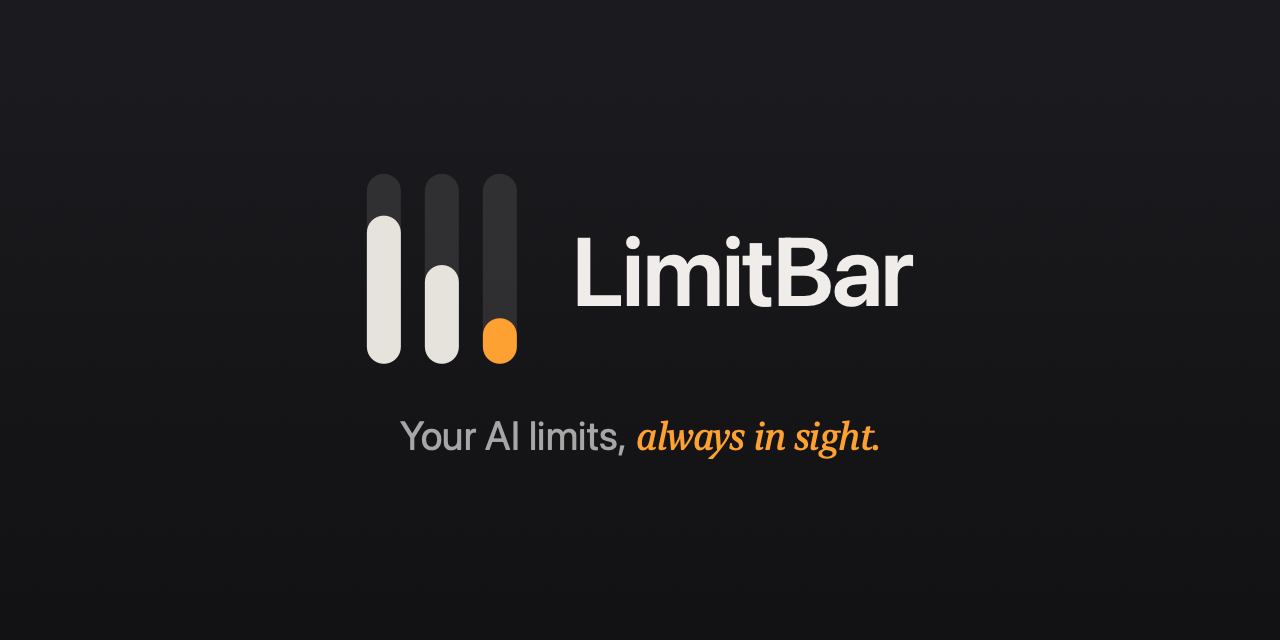
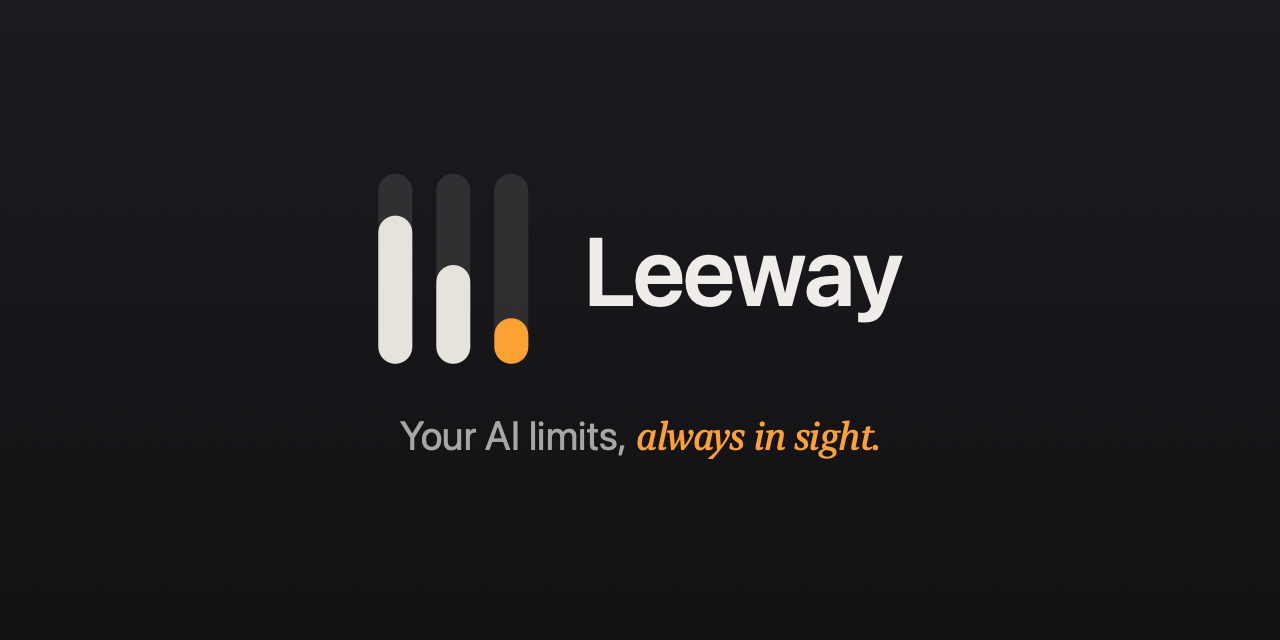
rename: LimitBar → Leeway — old name is taken by an existing paid app
The owner picked "Leeway" as the new name since "LimitBar" collides with a
competitor product already using that name. Renames the package, executable
target, test target, bundle id (lv.ykv.limitbar -> lv.ykv.leeway), source
and test directories, build/release scripts, env vars (LIMITBAR_* ->
LEEWAY_*), the landing site, README, and og.png (regenerated with the new
wordmark). docs/ and HANDOFF-*.md are left untouched by design — they're
historical records of the old name.

Side effect: the bundle id change orphans the old UserDefaults domain and
the old "LimitBar" Keychain service (own OAuth tokens only — the read-only
"Claude Code-credentials" entry is untouched). The extra OAuth account will
need to be re-added once after this rename ships.

Changed region(s): [[0.4375, 0.375, 0.7188, 0.5], [0.2812, 0.3125, 0.4375, 0.5938]]

diff --git a/site/index.html b/site/index.html
@@ -3,22 +3,22 @@
 <head>
 <meta charset="UTF-8" />
 <meta name="viewport" content="width=device-width, initial-scale=1" />
-<title>LimitBar — Claude Code &amp; Codex usage limits in your Mac menu bar</title>
-<meta name="description" content="LimitBar is a tiny macOS menu-bar app that shows your Claude Code and Codex usage limits live — the 5-hour window and the weekly cap, for every account you run. Know there's headroom before you fire the big job, and see exactly when the wall resets. Free, open source, notarized by Apple." />
+<title>Leeway — Claude Code &amp; Codex usage limits in your Mac menu bar</title>
+<meta name="description" content="Leeway is a tiny macOS menu-bar app that shows your Claude Code and Codex usage limits live — the 5-hour window and the weekly cap, for every account you run. Know there's headroom before you fire the big job, and see exactly when the wall resets. Free, open source, notarized by Apple." />
 <meta name="keywords" content="claude code usage limit, claude code rate limit tracker, claude 5 hour window, claude weekly limit, codex usage limit, chatgpt codex quota, anthropic usage monitor menu bar, claude max limits, ai coding agent limits mac" />
 <meta name="author" content="NORM — [email redacted]" />
-<link rel="canonical" href="https://limitbar.ykv.lv/" />
-<meta property="og:title" content="LimitBar — your AI limits, always in sight" />
+<link rel="canonical" href="https://leeway.ykv.lv/" />
+<meta property="og:title" content="Leeway — your AI limits, always in sight" />
 <meta property="og:description" content="Claude Code &amp; Codex usage across every account — live gauges in the macOS menu bar. 5-hour window, weekly cap, reset times. Free &amp; open source, notarized by Apple." />
-<meta property="og:image" content="https://limitbar.ykv.lv/assets/og.png" />
+<meta property="og:image" content="https://leeway.ykv.lv/assets/og.png" />
 <meta property="og:image:width" content="1280" />
 <meta property="og:image:height" content="640" />
-<meta property="og:url" content="https://limitbar.ykv.lv/" />
+<meta property="og:url" content="https://leeway.ykv.lv/" />
 <meta property="og:type" content="website" />
 <meta name="twitter:card" content="summary_large_image" />
-<meta name="twitter:title" content="LimitBar — Claude Code &amp; Codex limits in your menu bar" />
+<meta name="twitter:title" content="Leeway — Claude Code &amp; Codex limits in your menu bar" />
 <meta name="twitter:description" content="Live usage gauges for every Claude Code and Codex account — 5-hour window, weekly cap, reset times. Free &amp; open source." />
-<meta name="twitter:image" content="https://limitbar.ykv.lv/assets/og.png" />
+<meta name="twitter:image" content="https://leeway.ykv.lv/assets/og.png" />
 <meta name="theme-color" content="#eef0f3" />
 <link rel="icon" type="image/png" sizes="32x32" href="/favicon-32.png" />
 <link rel="icon" type="image/png" sizes="16x16" href="/favicon-16.png" />
@@ -33,14 +33,14 @@
 {
   "@context": "https://schema.org",
   "@type": "SoftwareApplication",
-  "name": "LimitBar",
+  "name": "Leeway",
   "applicationCategory": "DeveloperApplication",
   "operatingSystem": "macOS 13 Ventura or later",
   "softwareVersion": "0.1",
   "description": "A tiny macOS menu-bar app that shows Claude Code and Codex usage limits live — the 5-hour window and the weekly cap for every account, with reset times. Built for developers running AI coding agents on subscription plans.",
-  "url": "https://limitbar.ykv.lv/",
-  "downloadUrl": "https://github.com/sshykvlv/limitbar/releases/latest",
-  "softwareHelp": "https://github.com/sshykvlv/limitbar",
+  "url": "https://leeway.ykv.lv/",
+  "downloadUrl": "https://github.com/sshykvlv/leeway/releases/latest",
+  "softwareHelp": "https://github.com/sshykvlv/leeway",
   "license": "https://opensource.org/license/mit",
   "featureList": [
     "Live 5-hour and weekly usage gauges for Claude Code and Codex",
@@ -72,12 +72,12 @@
     {
       "@type": "Question",
       "name": "Can I watch several Claude accounts at once?",
-      "acceptedAnswer": { "@type": "Answer", "text": "Yes — that is the point. LimitBar picks up your main Claude Code login automatically and lets you add more accounts through the normal Claude OAuth flow. Each account gets its own row and its own gauges, and you can rename rows freely." }
+      "acceptedAnswer": { "@type": "Answer", "text": "Yes — that is the point. Leeway picks up your main Claude Code login automatically and lets you add more accounts through the normal Claude OAuth flow. Each account gets its own row and its own gauges, and you can rename rows freely." }
     },
     {
       "@type": "Question",
       "name": "Are my tokens safe?",
-      "acceptedAnswer": { "@type": "Answer", "text": "Tokens are stored in the macOS Keychain, never in plain files. LimitBar talks only to the official Anthropic and OpenAI endpoints, and every line of it is open source on GitHub." }
+      "acceptedAnswer": { "@type": "Answer", "text": "Tokens are stored in the macOS Keychain, never in plain files. Leeway talks only to the official Anthropic and OpenAI endpoints, and every line of it is open source on GitHub." }
     },
     {
       "@type": "Question",
@@ -86,7 +86,7 @@
     },
     {
       "@type": "Question",
-      "name": "Is LimitBar free?",
+      "name": "Is Leeway free?",
       "acceptedAnswer": { "@type": "Answer", "text": "The direct download is free and open source under the MIT license, forever. A paid Mac App Store convenience build of the same app is coming for people who prefer the Store. There is an optional tip jar as well." }
     }
   ]
@@ -108,20 +108,20 @@
 <header class="nav">
   <a class="brand" href="/">
     <svg class="brand-mark" aria-hidden="true"><use href="#bars"/></svg>
-    <span class="brand-text">Limit<span class="brand-accent">Bar</span></span>
+    <span class="brand-text">Lee<span class="brand-accent">way</span></span>
   </a>
-  <a class="nav-buy" href="#get">Get LimitBar · free</a>
+  <a class="nav-buy" href="#get">Get Leeway · free</a>
 </header>
 
 <main>
   <!-- HERO -->
   <section class="hero">
     <div class="glow" aria-hidden="true"></div>
-    <img class="hero-icon" src="/assets/icon.png" alt="LimitBar app icon" width="160" height="160" />
+    <img class="hero-icon" src="/assets/icon.png" alt="Leeway app icon" width="160" height="160" />
     <h1>Your AI limits,<br /><em>always in sight.</em></h1>
-    <p class="lede">Claude Code and Codex enforce a 5-hour window and a weekly cap — and tell you about it mid-task. LimitBar puts every account's live gauges in the macOS menu bar: see the headroom before you fire the big job, and exactly when the wall resets. No dashboards, no guessing.</p>
+    <p class="lede">Claude Code and Codex enforce a 5-hour window and a weekly cap — and tell you about it mid-task. Leeway puts every account's live gauges in the macOS menu bar: see the headroom before you fire the big job, and exactly when the wall resets. No dashboards, no guessing.</p>
     <div class="cta-row">
-      <a class="btn btn-primary" href="https://github.com/sshykvlv/limitbar/releases/latest/download/LimitBar.zip" data-umami-event="download">Download for macOS</a>
+      <a class="btn btn-primary" href="https://github.com/sshykvlv/leeway/releases/latest/download/Leeway.zip" data-umami-event="download">Download for macOS</a>
       <span class="trust">Free &amp; open source · notarized by Apple</span>
     </div>
   </section>
@@ -134,7 +134,7 @@
         <span class="mb-highlight"><svg class="mb-bars" aria-hidden="true"><use href="#bars"/></svg></span>
         <span class="mb-clock">Wed 9:41</span>
       </div>
-      <div class="menu" role="menu" aria-label="LimitBar menu">
+      <div class="menu" role="menu" aria-label="Leeway menu">
         <div class="acct">
           <div class="acct-id">
             <span class="acct-name">Main</span>
@@ -163,7 +163,7 @@
         <div class="mi"><span class="mi-label">Add Claude Account…</span></div>
         <div class="mi mi-dim"><span class="mi-label">Updated 12s ago</span></div>
         <div class="mi-sep"></div>
-        <div class="mi"><span class="mi-label">Quit LimitBar</span><span class="mi-kbd">⌘Q</span></div>
+        <div class="mi"><span class="mi-label">Quit Leeway</span><span class="mi-kbd">⌘Q</span></div>
       </div>
     </div>
     <p class="showcase-cap">Rows are accounts; rings are the 5-hour and weekly windows, each with its exact reset time. Green is headroom, yellow is “wrap it up”, and when a window runs dry the clock turns red — <em>↻ 15:12</em> beats a surprise lockout.</p>
@@ -192,7 +192,7 @@
   <section class="how">
     <h2>Three steps</h2>
     <ol class="steps">
-      <li><span class="num">1</span><div><h4>Open it</h4><p>Drag LimitBar to Applications and double-click. Three little bars appear in your menu bar.</p></div></li>
+      <li><span class="num">1</span><div><h4>Open it</h4><p>Drag Leeway to Applications and double-click. Three little bars appear in your menu bar.</p></div></li>
       <li><span class="num">2</span><div><h4>It finds your logins</h4><p>Your Claude Code session and local Codex login are picked up automatically. Add more Claude accounts from the menu — a normal OAuth window, tokens go straight to the Keychain.</p></div></li>
       <li><span class="num">3</span><div><h4>Glance up</h4><p>Green means go. Yellow means wrap it up. Red shows when the window refreshes — switch accounts or take the walk you owed yourself.</p></div></li>
     </ol>
@@ -205,9 +205,9 @@
       <p class="price"><svg class="price-mark" aria-hidden="true"><use href="#bars"/></svg>Free</p>
       <p class="price-sub">Open source. Yours forever.</p>
       <span class="spacer"></span>
-      <a class="btn btn-primary" href="https://github.com/sshykvlv/limitbar/releases/latest/download/LimitBar.zip" data-umami-event="download">Download for macOS</a>
+      <a class="btn btn-primary" href="https://github.com/sshykvlv/leeway/releases/latest/download/Leeway.zip" data-umami-event="download">Download for macOS</a>
       <p class="price-meta">Apple Silicon &amp; Intel · macOS 13+ · notarized · picks up your CLI logins automatically</p>
-      <a class="btn btn-ghost btn-gh" href="https://github.com/sshykvlv/limitbar" data-umami-event="github"><svg class="gh-mark" aria-hidden="true"><use href="#gh"/></svg>View on GitHub</a>
+      <a class="btn btn-ghost btn-gh" href="https://github.com/sshykvlv/leeway" data-umami-event="github"><svg class="gh-mark" aria-hidden="true"><use href="#gh"/></svg>View on GitHub</a>
     </div>
     <div class="price-card">
       <span class="price-badge">Mac App Store</span>
@@ -233,18 +233,18 @@
       </details>
       <details>
         <summary>Can I watch several Claude accounts at once?</summary>
-        <p>Yes — that’s the point. LimitBar picks up your main Claude Code login automatically and lets you add more accounts through the normal Claude OAuth flow. Each account gets its own row and its own gauges, and you can rename rows freely.</p>
+        <p>Yes — that’s the point. Leeway picks up your main Claude Code login automatically and lets you add more accounts through the normal Claude OAuth flow. Each account gets its own row and its own gauges, and you can rename rows freely.</p>
       </details>
       <details>
         <summary>Are my tokens safe?</summary>
-        <p>Tokens live in the macOS Keychain, never in plain files. LimitBar talks only to the official Anthropic and OpenAI endpoints, and every line of it is open source on GitHub.</p>
+        <p>Tokens live in the macOS Keychain, never in plain files. Leeway talks only to the official Anthropic and OpenAI endpoints, and every line of it is open source on GitHub.</p>
       </details>
       <details>
         <summary>What’s the difference between the free and the App Store version?</summary>
         <p>The gauges are identical. The free direct download can pick up your existing CLI logins automatically — the App Store sandbox doesn’t allow that, so the Store build asks you to sign in to Claude once (normal OAuth) and to point it at your Codex folder. In exchange you get one-click install and automatic updates through the Store. Pick whichever fits you; the direct build stays free and open source either way.</p>
       </details>
       <details>
-        <summary>Is LimitBar really free?</summary>
+        <summary>Is Leeway really free?</summary>
         <p>The direct download is — free and open source under the MIT license, forever. The upcoming Mac App Store version is a paid convenience build of the same app, for people who prefer installing and updating through the Store. There’s also an optional tip jar if the free build saves you from a mid-task lockout.</p>
       </details>
     </div>
@@ -252,7 +252,7 @@
 
   <!-- TIP -->
   <section class="tipbar">
-    <p class="tip-pitch">LimitBar is free and open source. If it saved your evening run from a surprise lockout, a coffee keeps it going.</p>
+    <p class="tip-pitch">Leeway is free and open source. If it saved your evening run from a surprise lockout, a coffee keeps it going.</p>
     <a class="btn btn-ghost" href="https://buy.stripe.com/5kQ14ogr4dq9fky4Mm0Jq02" data-umami-event="tip">Pay what you want — leave a tip</a>
   </section>
 </main>
@@ -260,10 +260,10 @@
 <footer class="footer">
   <a class="brand brand-sm" href="/">
     <svg class="brand-mark" aria-hidden="true"><use href="#bars"/></svg>
-    <span class="brand-text">Limit<span class="brand-accent">Bar</span></span>
+    <span class="brand-text">Lee<span class="brand-accent">way</span></span>
   </a>
   <span class="footer-links">
-    <a href="https://github.com/sshykvlv/limitbar" data-umami-event="github">GitHub</a>
+    <a href="https://github.com/sshykvlv/leeway" data-umami-event="github">GitHub</a>
     <a href="https://lidless.ykv.lv/">Lidless — its sibling</a>
     <a href="mailto:[email redacted]">[email redacted]</a>
   </span>

diff --git a/Package.swift b/Package.swift
@@ -2,12 +2,12 @@
 import PackageDescription
 
 let package = Package(
-    name: "LimitBar",
+    name: "Leeway",
     platforms: [.macOS(.v14)],
     targets: [
-        .executableTarget(name: "LimitBar", path: "Sources/LimitBar"),
-        .testTarget(name: "LimitBarTests", dependencies: ["LimitBar"],
-                    path: "Tests/LimitBarTests",
+        .executableTarget(name: "Leeway", path: "Sources/Leeway"),
+        .testTarget(name: "LeewayTests", dependencies: ["Leeway"],
+                    path: "Tests/LeewayTests",
                     resources: [.copy("Fixtures")]),
     ]
 )

diff --git a/scripts/gen-og.swift b/scripts/gen-og.swift
@@ -37,7 +37,7 @@ let wordAttrs: [NSAttributedString.Key: Any] = [
     .foregroundColor: NSColor(srgbRed: 0.95, green: 0.94, blue: 0.93, alpha: 1),
     .kern: -1.5,
 ]
-let word = NSAttributedString(string: "LimitBar", attributes: wordAttrs)
+let word = NSAttributedString(string: "Leeway", attributes: wordAttrs)
 let wordSize = word.size()
 
 let glyphGap: CGFloat = 56

diff --git a/site/styles.css b/site/styles.css
@@ -1,4 +1,4 @@
-/* LimitBar landing — light grey + amber. Структура зеркалит lidless-сайт,
+/* Leeway landing — light grey + amber. Структура зеркалит lidless-сайт,
    но палитра своя: светло-серый фон, белые карточки, тёмный мокап меню
    как контрастная витрина (фидбэк владельца 11.07 — «не как Lidless»). */
 :root {

diff --git a/README.md b/README.md
@@ -1,17 +1,17 @@
-# LimitBar
+# Leeway
 
 A menu bar app that shows how much usage you have left on multiple Claude accounts and Codex, at a glance.
 
-![LimitBar menu](docs/screenshot.png)
+![Leeway menu](docs/screenshot.png)
 <!-- TODO: add a real screenshot -->
 
 ## Install
 
 ```
-brew install --cask sshykvlv/tap/limitbar
+brew install --cask sshykvlv/tap/leeway
 ```
 
-Or download `LimitBar.zip` from [Releases](https://github.com/sshykvlv/limitbar/releases) and unzip it to `/Applications`.
+Or download `Leeway.zip` from [Releases](https://github.com/sshykvlv/leeway/releases) and unzip it to `/Applications`.
 
 ## Usage
 